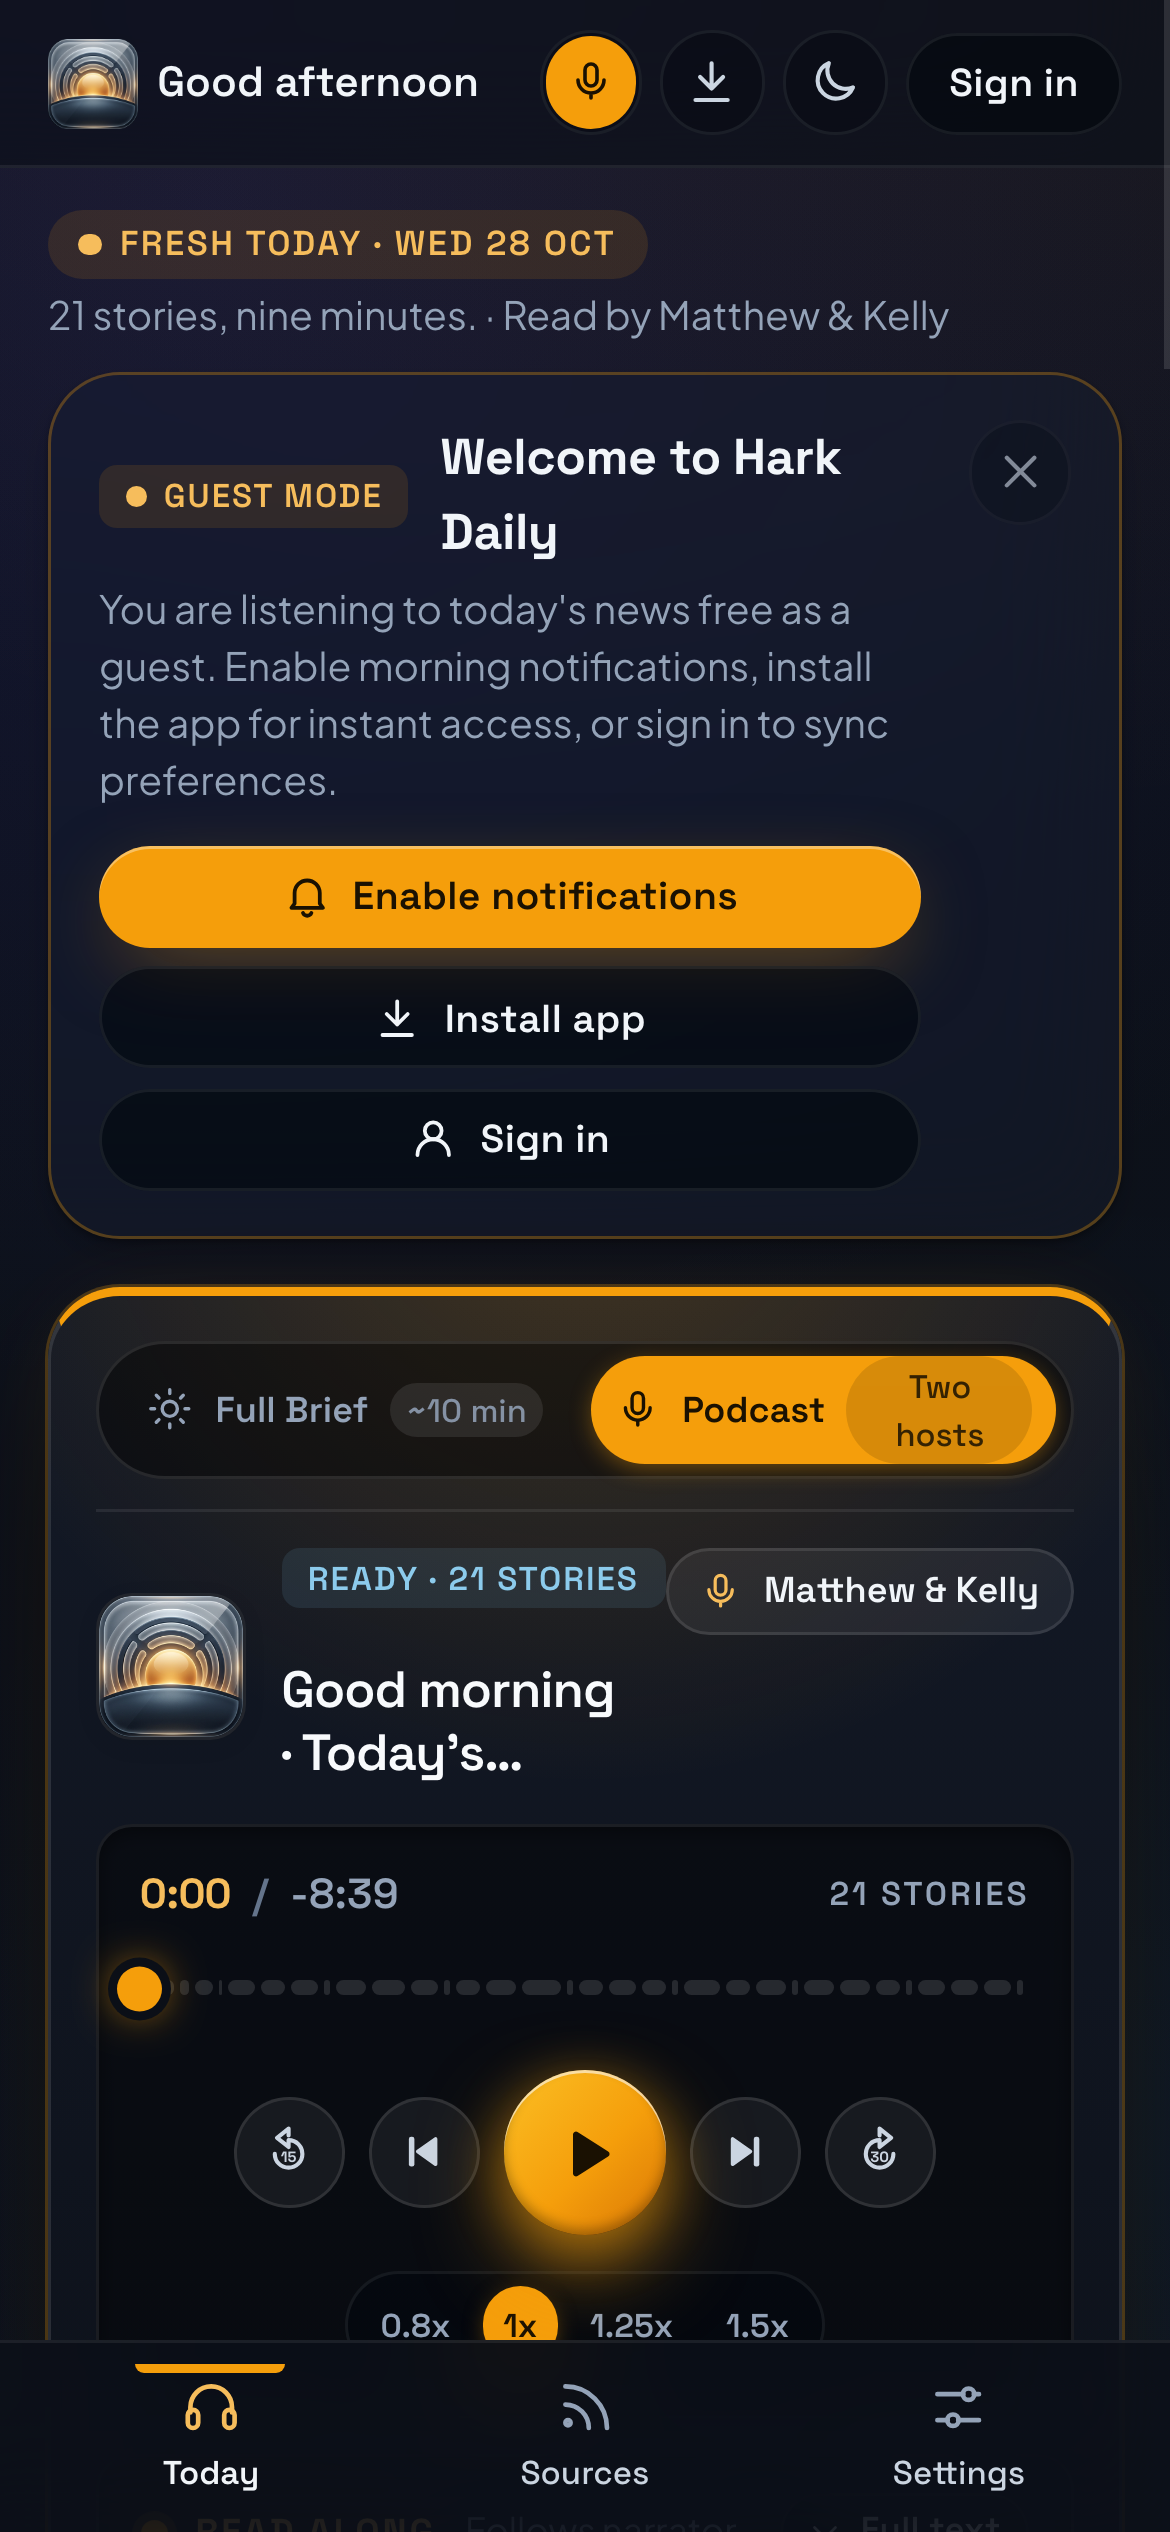
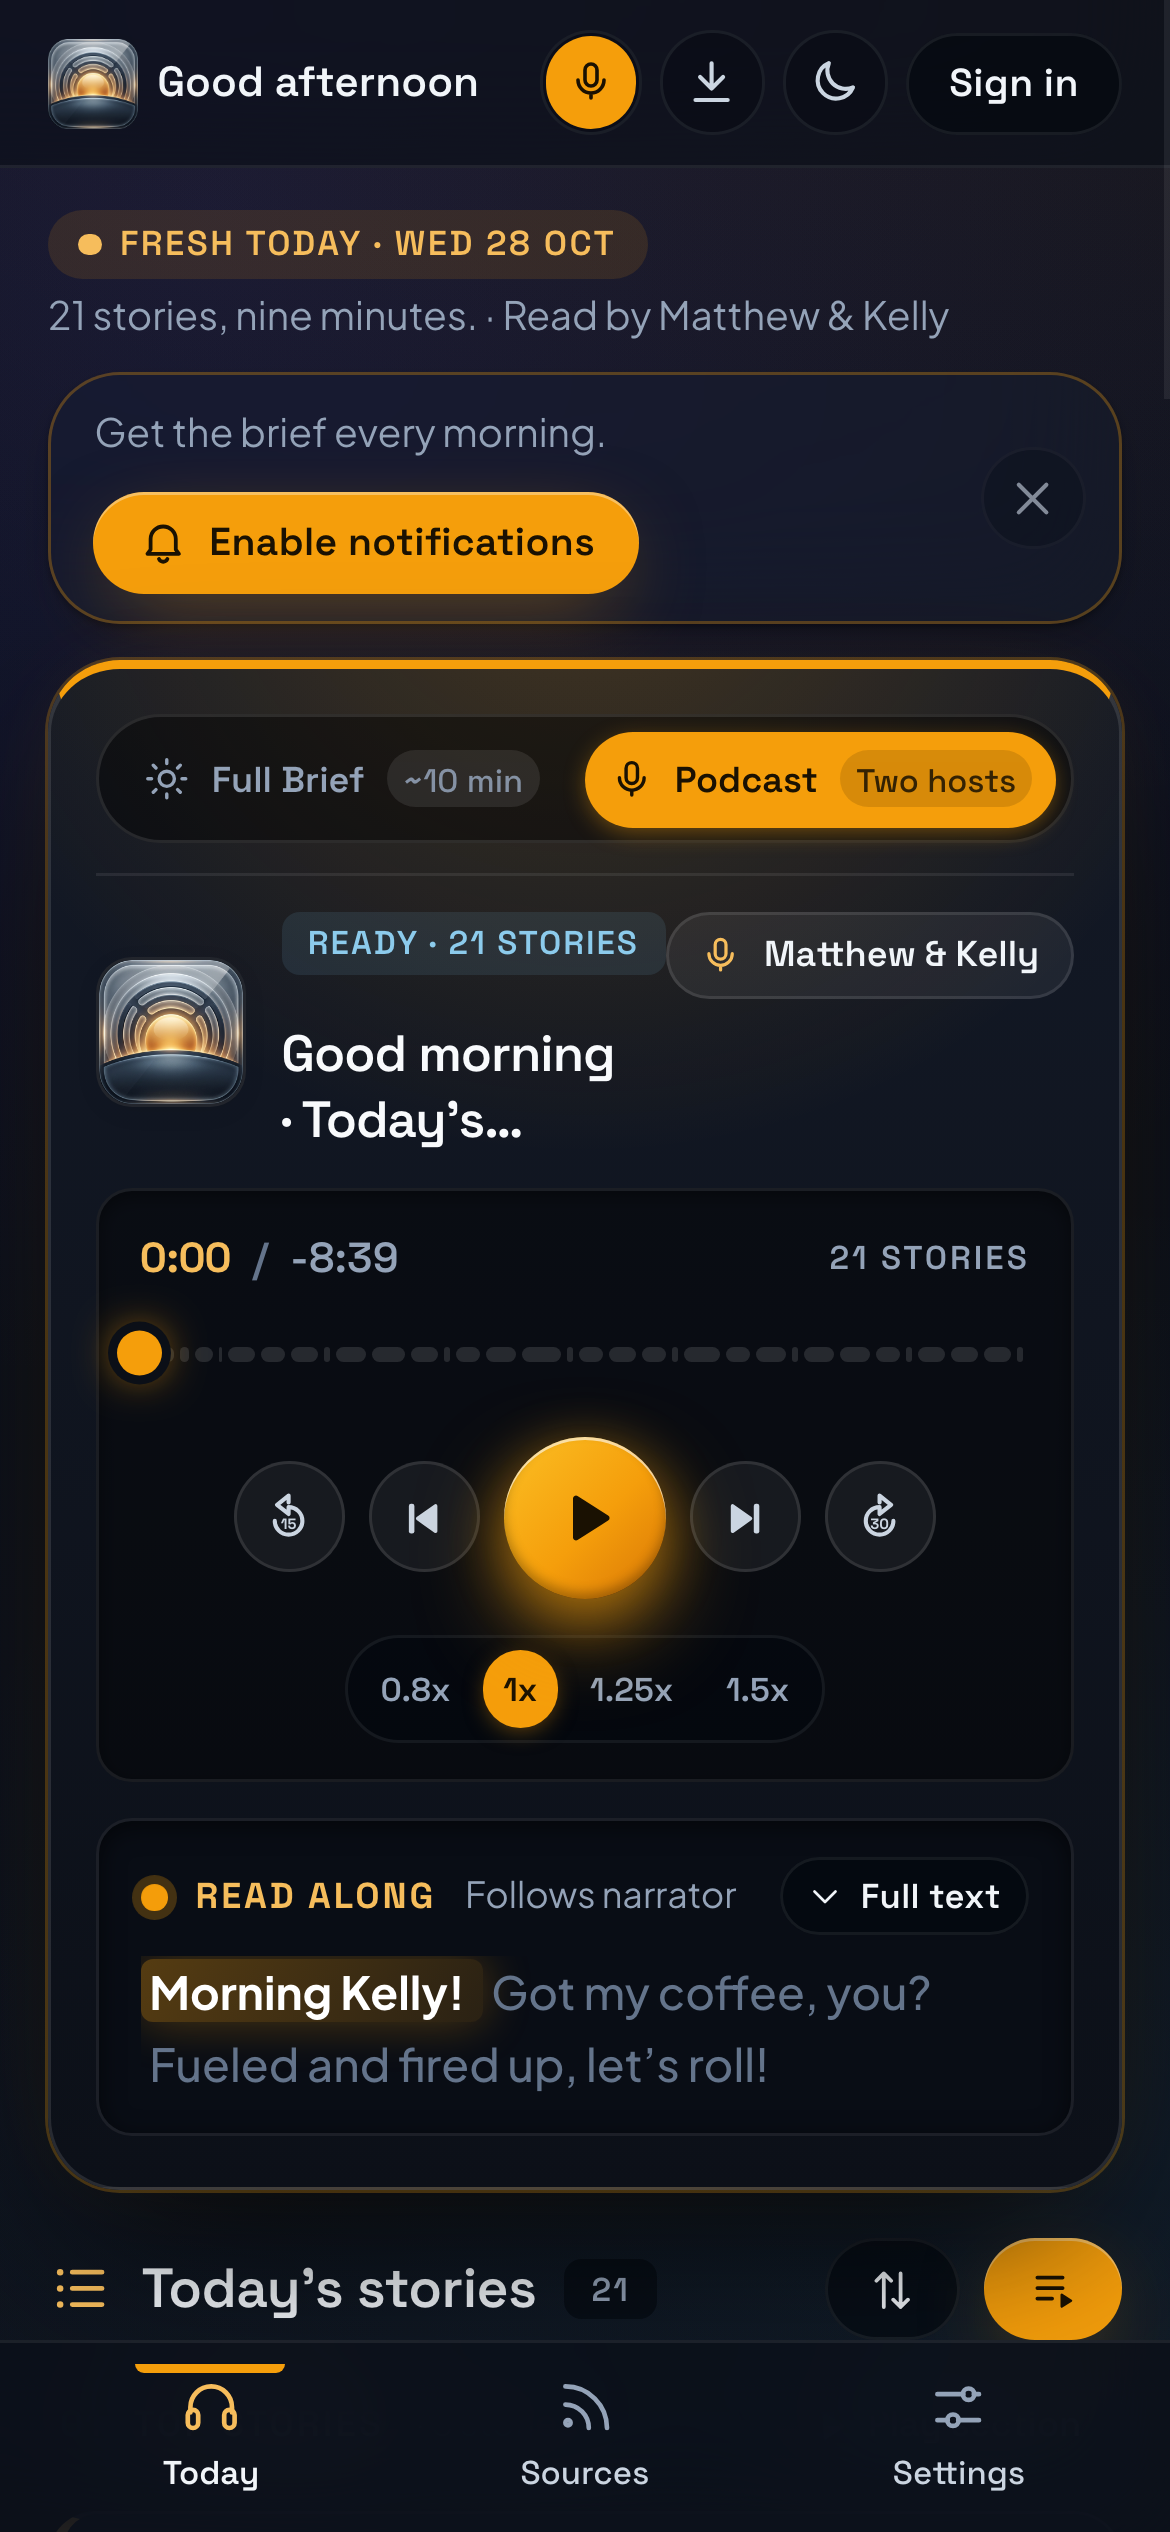
feat(web): streamline mobile guest header & refresh mobile screenshots

diff --git a/web/css/styles.css b/web/css/styles.css
@@ -878,12 +878,20 @@ main { flex: 1; }
 .guest-banner-close:hover {
   opacity: 1;
 }
+.guest-banner-short { display: none; }
 @media (max-width: 768px) {
-  .guest-banner { padding: .95rem 1rem; margin-bottom: 1rem; }
-  .guest-banner-icon { display: none; }
-  .guest-banner-desc { font-size: .8125rem; margin-bottom: .75rem; }
-  .guest-banner-actions { gap: .4rem; }
-  .guest-banner-actions .pill-btn { width: 100%; justify-content: center; }
+  /* Compact strip: the player must stay above the fold. Sign in and install live in the top bar. */
+  .guest-banner { padding: .6rem .7rem .6rem .9rem; margin-bottom: .75rem; }
+  .guest-banner-main { align-items: center; gap: .5rem; }
+  .guest-banner-icon,
+  .guest-banner-header,
+  .guest-banner-desc,
+  #bannerInstallBtn,
+  #bannerSignInBtn { display: none; }
+  .guest-banner-content { display: flex; align-items: center; gap: .6rem; flex-wrap: wrap; }
+  .guest-banner-short { display: block; flex: 1 1 8rem; margin: 0; font-size: .8125rem; color: var(--muted); }
+  .guest-banner-actions { flex: none; }
+  .guest-banner-actions .pill-btn { white-space: nowrap; }
 }
 
 /* =============================================================== HERO AUDIO CONSOLE */
@@ -1852,7 +1860,7 @@ dialog.sheet::backdrop { background: rgba(5, 8, 14, .55); -webkit-backdrop-filte
   .brief-mode-bar { margin-bottom: .75rem; padding-bottom: .6rem; }
   .mode-segmented { width: 100%; }
   .mode-segmented .seg-opt { flex: 1; justify-content: center; padding: 0 .5rem; font-size: .75rem; min-height: 2rem; }
-  .mode-meta { font-size: .68rem; padding: .08rem .35rem; }
+  .mode-meta { font-size: .68rem; padding: .08rem .35rem; white-space: nowrap; }
   .hero-top { align-items: center; gap: .75rem; }
   .hero-art { width: 3.1rem; height: 3.1rem; min-width: 3.1rem; min-height: 3.1rem; border-radius: var(--r); }
   .hero-art-icon { width: 1.4rem; height: 1.4rem; }

diff --git a/web/index.html b/web/index.html
@@ -359,6 +359,7 @@
                     <span class="badge badge-accent"><span class="badge-dot" aria-hidden="true"></span>Guest Mode</span>
                     <h2 class="guest-banner-title">Welcome to Hark Daily</h2>
                   </div>
+                  <p class="guest-banner-short">Get the brief every morning.</p>
                   <p class="guest-banner-desc">You are listening to today's news free as a guest. Enable morning notifications, install the app for instant access, or sign in to sync preferences.</p>
                   <div class="guest-banner-actions">
                     <button class="pill-btn sm" type="button" id="bannerPushBtn">
